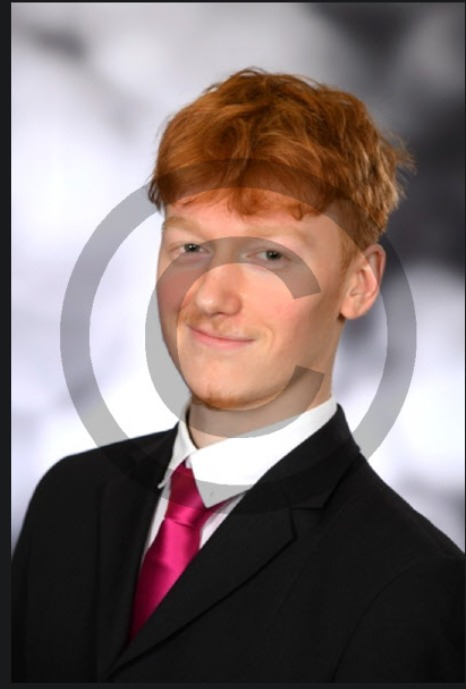
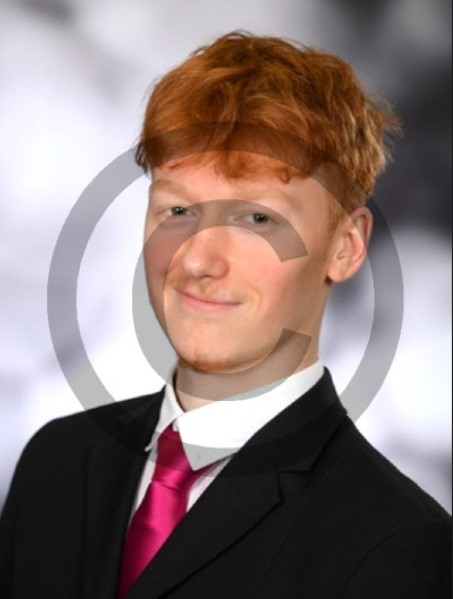
fixes

diff --git a/index.html b/index.html
@@ -17,7 +17,7 @@
                 workExperience: "Work Experience",
                 projects: "Projects",
                 aboutMe: "About me",
-                selectLanguage: "Select language",
+                selectLanguage: "Select language:",
                 english: "English",
                 german: "German",
                 slovak: "Slovak"
@@ -29,7 +29,7 @@
                 workExperience: "Berufserfahrung",
                 projects: "Projekte",
                 aboutMe: "Über mich",
-                selectLanguage: "Sprache auswählen",
+                selectLanguage: "Sprache auswählen:",
                 english: "English",
                 german: "Deutsch",
                 slovak: "Slowakisch"
@@ -42,10 +42,10 @@
                 projects: "Projekty",
                 aboutMe: "O mne",
 
-                selectLanguage: "Vybrat Rec",
+                selectLanguage: "Vybrat Jazyk:",
                 english: "Anglicky",
                 german: "Nemcina",
-                slovak: "Slovenksy"
+                slovak: "Slovencina"
 
             },
 
@@ -75,7 +75,7 @@
     </script>
 </head>
 <body>
-    <div id="headerBackground">
+    
     <!-- Header with Flexbox layout -->
     <div class="headerClass">
         <div class="left">
@@ -93,28 +93,32 @@
     </div>
 
     <!-- Content Sections -->
+    <div class="heroContent">
+        <image src="pictures/Professional pic.jpg"></image>
+        <h1>Welcome to my Page!</h1>
+        <h2>I'm a starting full-stack developer</h2>
+    </div>
+
     <div>
-        <h1>Welcome</h1>
-    </div>
-
-
-    <div class="mainContent">
         <div class="mainContent">
-            <h1 data-translate-id="skills">Skills</h1>
-        </div>
-        <div class="mainContent">
-            <h1 data-translate-id="education">Education</h1>
-        </div>
-        <div class="mainContent">
-            <h1 data-translate-id="workExperience">Work Experience</h1>
-        </div>
-        <div class="mainContent">
-            <h1 data-translate-id="projects">Projects</h1>
-        </div>
-        <div class="mainContent">
-            <h1 data-translate-id="aboutMe">About me</h1>
+            <div class="mainContent">
+                <h1 data-translate-id="skills">Skills</h1>
+            </div>
+            <div class="mainContent">
+                <h1 data-translate-id="education">Education</h1>
+            </div>
+            <div class="mainContent">
+                <h1 data-translate-id="workExperience">Work Experience</h1>
+            </div>
+            <div class="mainContent">
+                <h1 data-translate-id="projects">Projects</h1>
+            </div>
+            <div class="mainContent">
+                <h1 data-translate-id="aboutMe">About me</h1>
+            </div>
         </div>
     </div>
+
 
     
 

diff --git a/index.css b/index.css
@@ -3,10 +3,22 @@ body {
     font-family: Arial, sans-serif;
     margin: 0;
     padding: 0;
+
+}
+
+.heroContent {
     background-image: url(pictures/pexels-markusspiske-2004161.jpg);
     background-position: center; /* Center the image */
     background-repeat: no-repeat; /* Prevent the image from repeating */
     background-size: 120%;
+    padding: 150px;
+
+}
+
+
+
+.heroContent h1{
+    color: white;
 }
 
 h1 {
@@ -62,7 +74,7 @@ h1 {
 
 /* Content section styling */
 .mainContent {
-    margin: 20px;
+    margin-bottom: 10px;
     padding: 20px;
     background-color: rgba(173, 173, 173, 0.663);
     box-shadow: 0 4px 6px rgba(0, 0, 0, 0.1);
